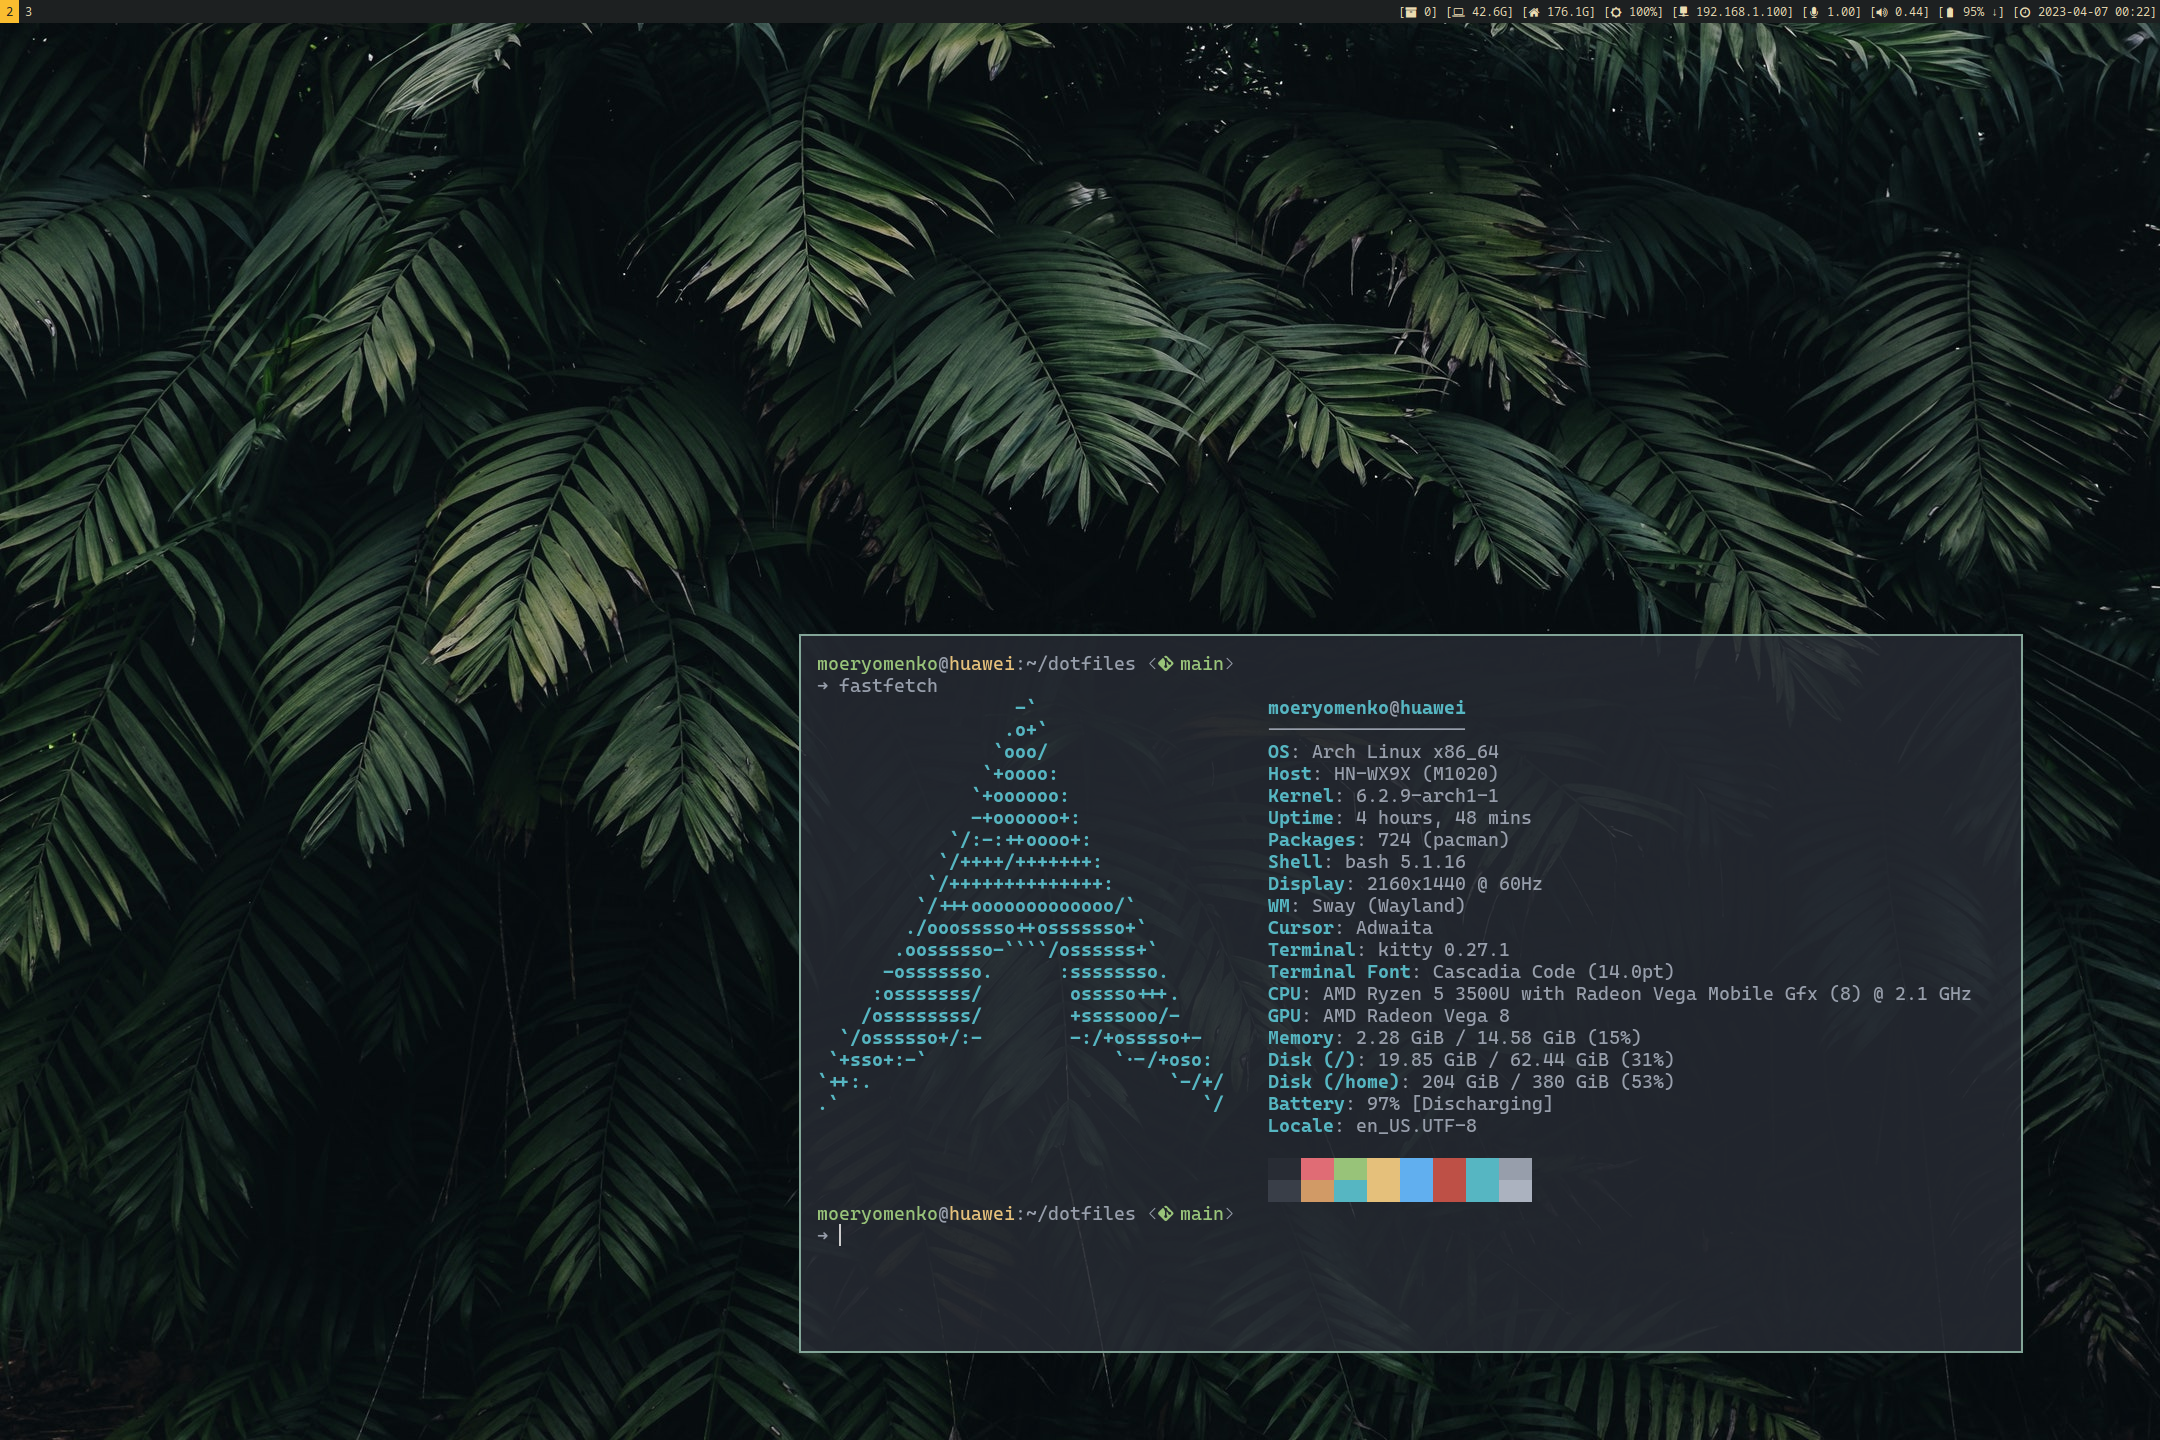
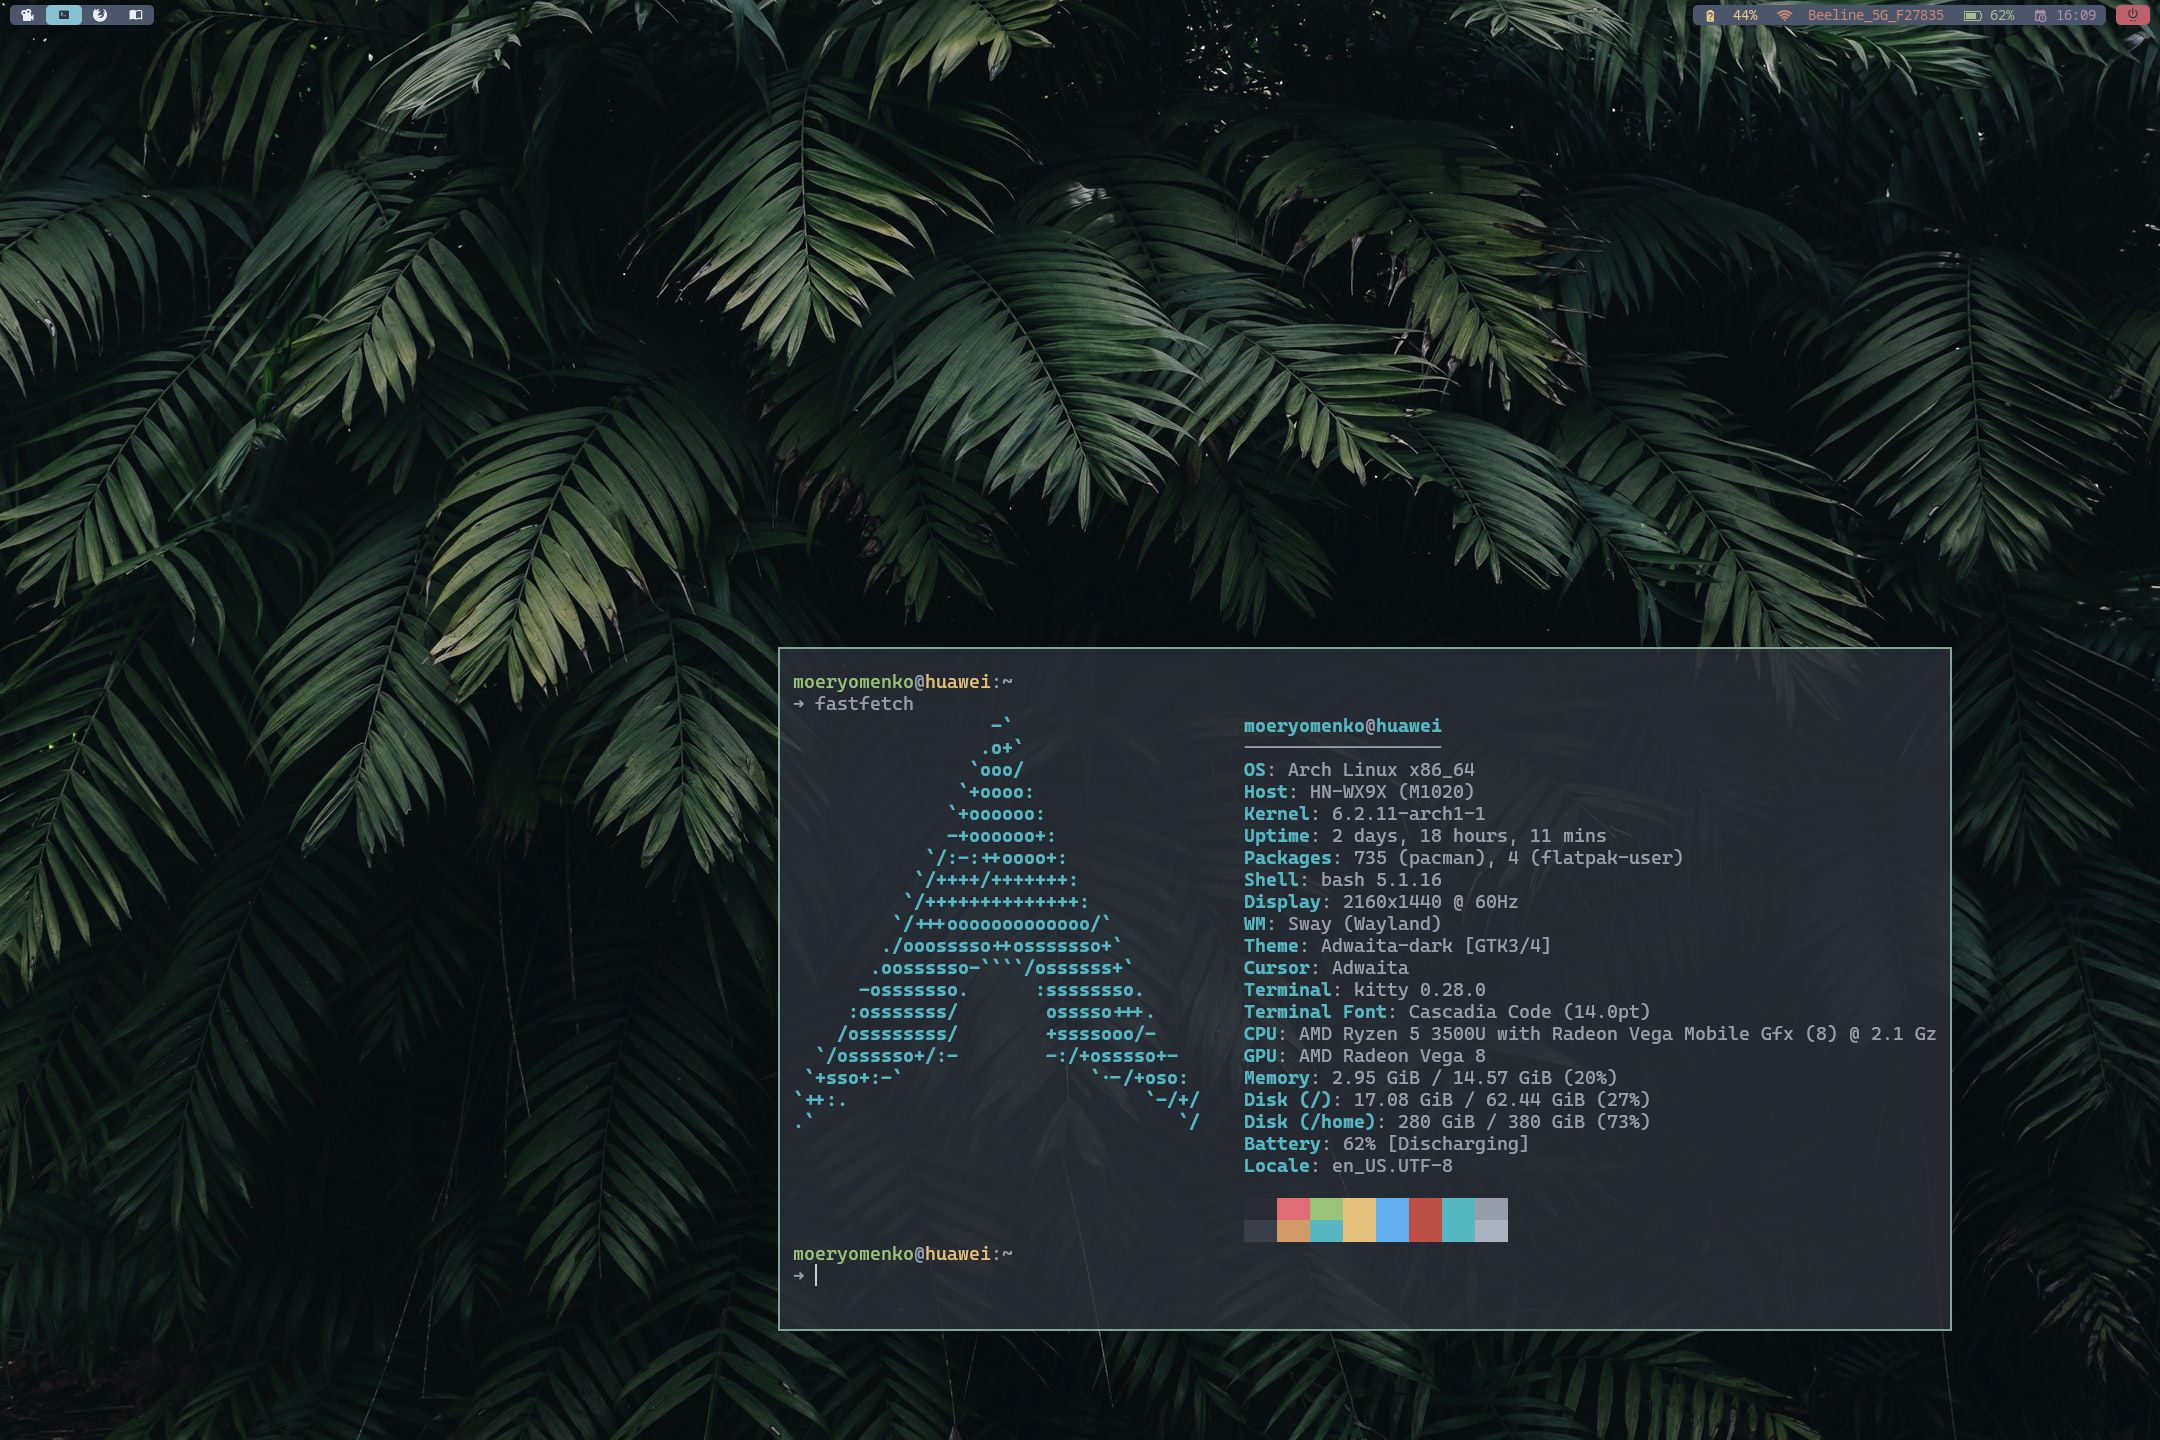
feat(sway): use waybar instead swaybar

diff --git a/README.md b/README.md
@@ -5,3 +5,5 @@ Configurations for applications managed by [GNU Stow](https://www.gnu.org/softwa
 ![](screenshot-1.png)
 
 ![](screenshot-2.png)
+
+![](screenshot-3.png)
